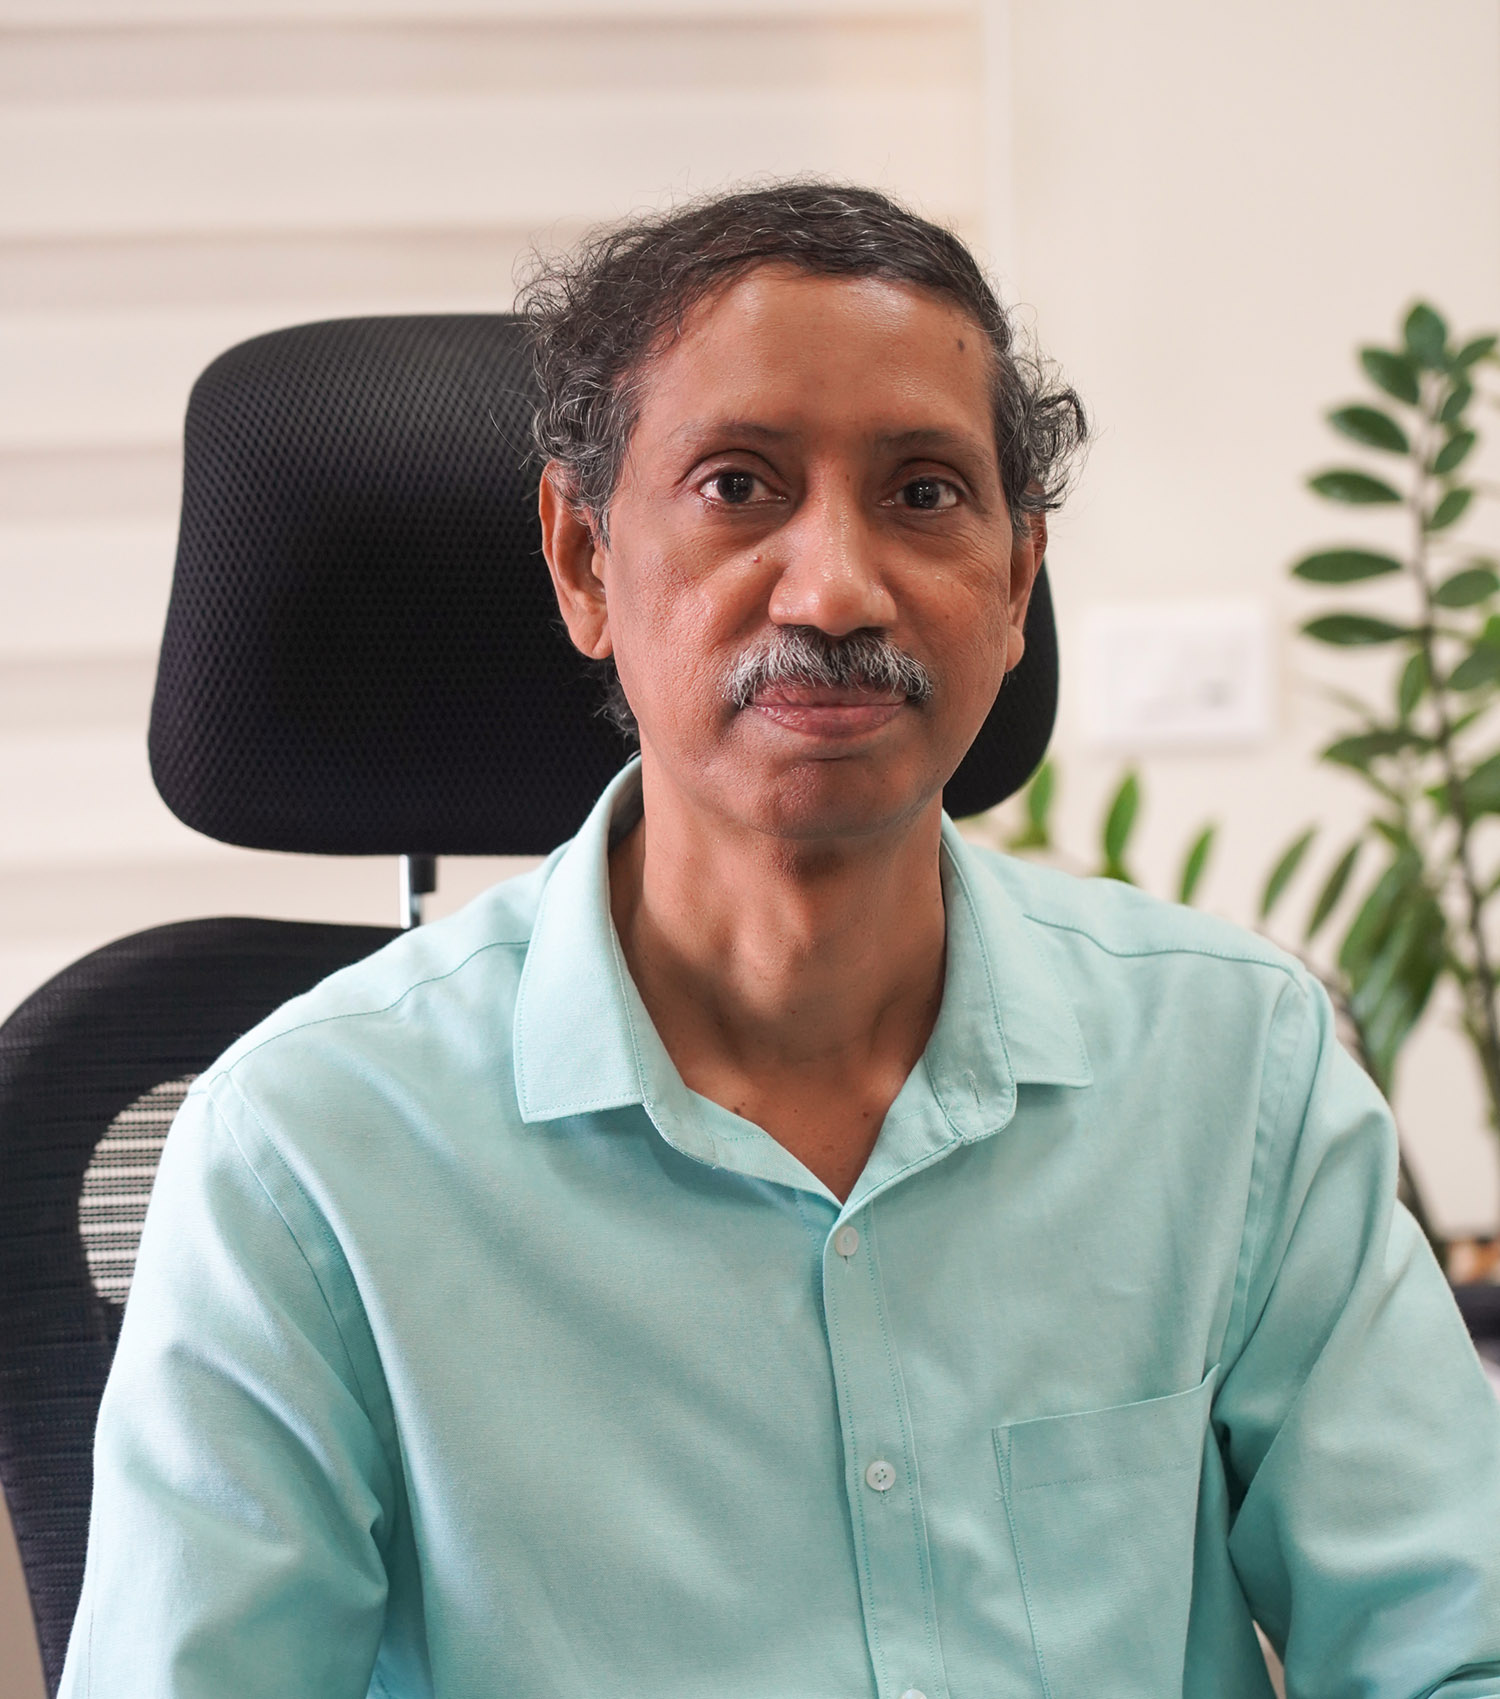
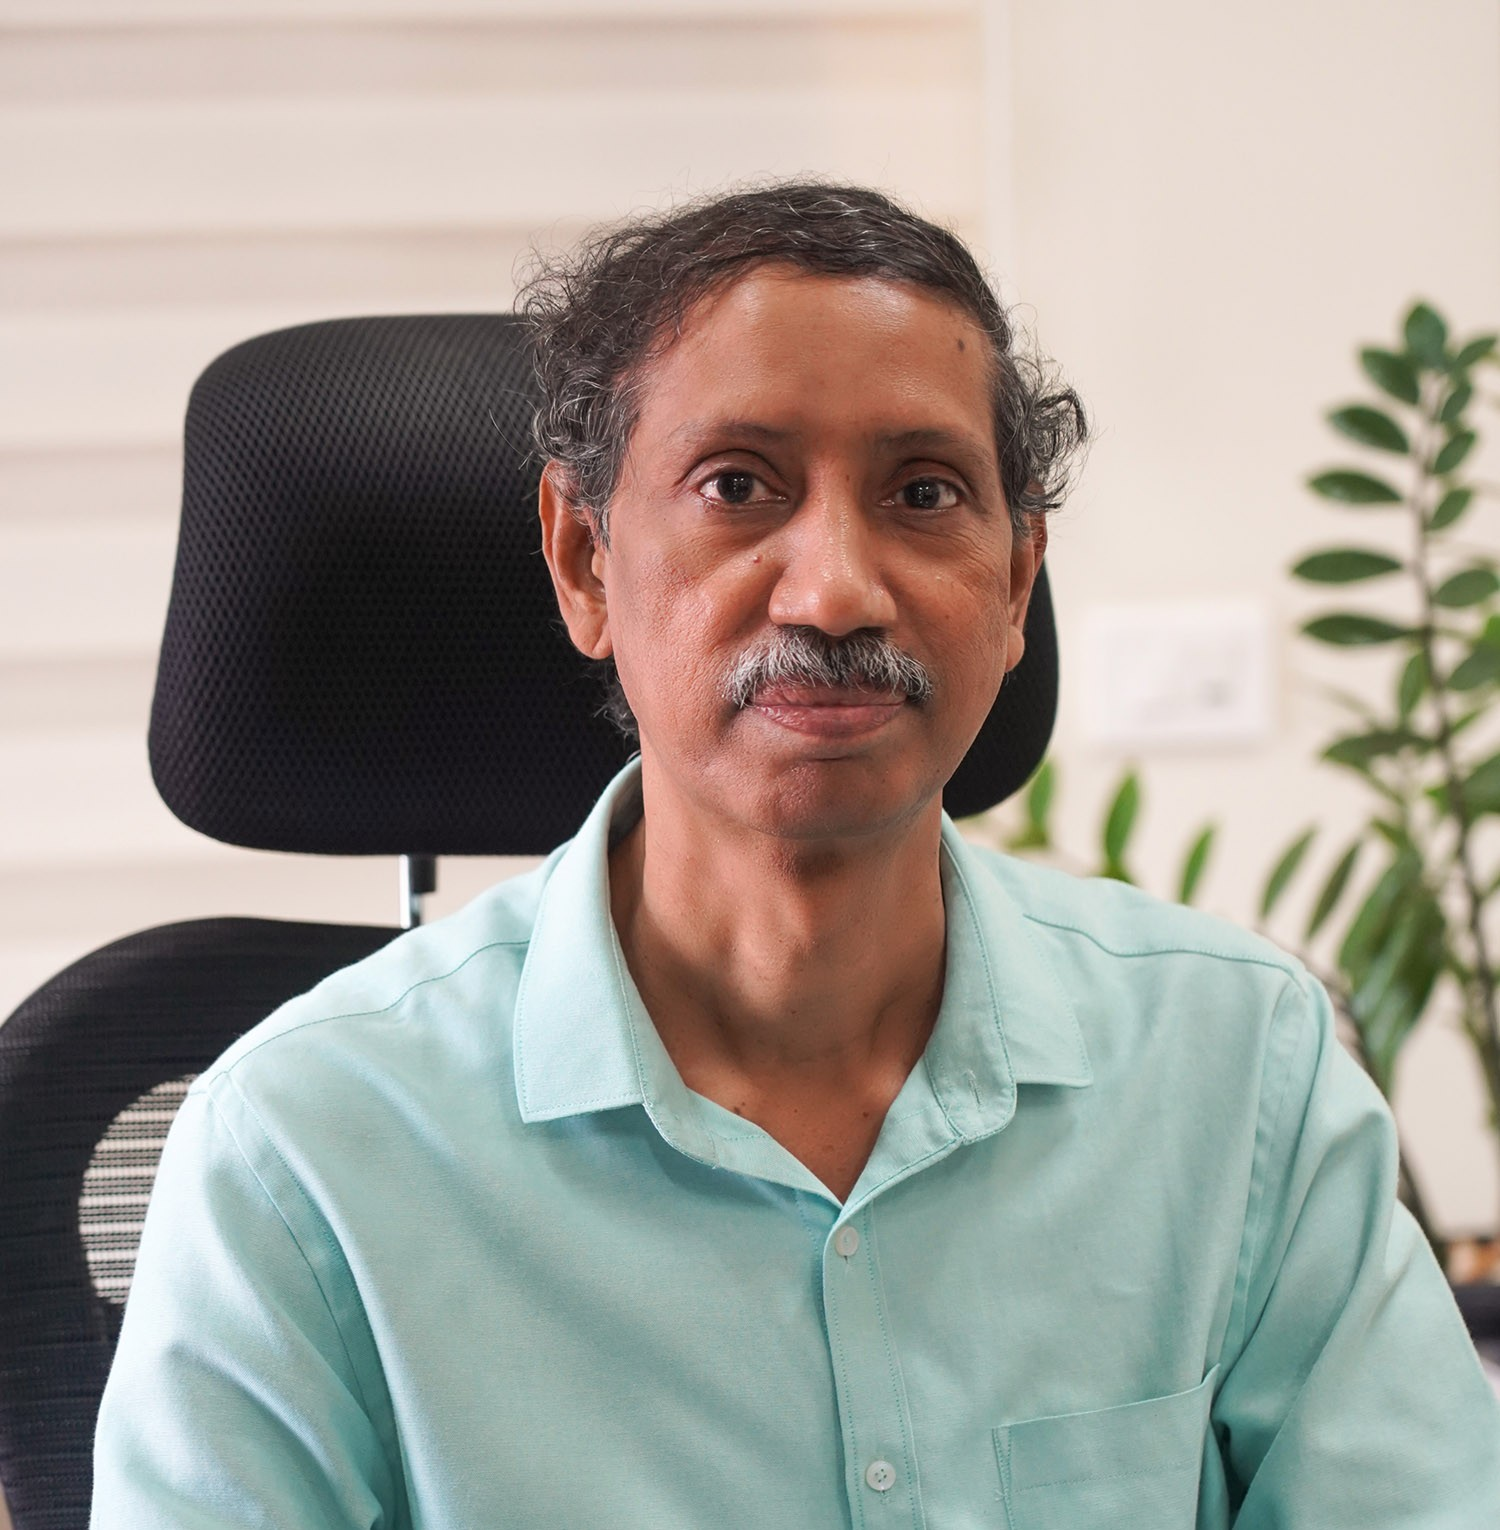
fixes

diff --git a/src/NavBar.css b/src/NavBar.css
@@ -249,58 +249,65 @@ white-space: nowrap;
   display: flex;
   flex-direction: row;
 }
-
 .custom-navbar {
-  background-color: #f8f9fa; /* Light background color */
+  background: linear-gradient(135deg, #f8f9fa, #e9ecef); /* Soft gradient */
   padding: 20px;
-  border-radius: 8px;
+  border-radius: 12px;
   font-family: 'Arial', sans-serif;
-  box-shadow: 0 4px 8px rgba(0, 0, 0, 0.1);
+  box-shadow: 0 6px 12px rgba(0, 0, 0, 0.15);
+  border: 1px solid #dee2e6;
 }
 
 .custom-navbar a {
-  color: #ff9d00; /* Blue text */
+  color: #ff9d00; 
   text-decoration: none;
   margin-right: 15px;
   font-size: 1rem;
-  font-weight: 500;
-  transition: color 0.3s ease-in-out;
+  font-weight: 600;
+  transition: all 0.3s ease-in-out;
+  padding: 5px 10px;
+  border-radius: 5px;
 }
 
-.custom-navbar a:hover {
-  color: #b36500; /* Darker blue on hover */
-  text-decoration: underline;
-}
 
-.custom-
-h1 {
-  font-size: 1.5rem;
-  color: #343a40; /* Dark gray */
+
+.custom-navbar h1 {
+  font-size: 1.8rem;
+  color: #343a40;
   margin-top: 20px;
   margin-bottom: 10px;
-  border-bottom: 2px solid #ff9500; /* Underline with blue */
+  border-bottom: 3px solid #ff9500;
   padding-bottom: 5px;
+  font-family: 'Playfair Display', serif;
+  letter-spacing: 1px;
 }
 
 .custom-navbar h4 {
-  font-size: 1.2rem;
-  color: #495057; /* Medium gray */
+  font-size: 1.3rem;
+  color: #495057;
   margin-top: 15px;
   margin-bottom: 8px;
+  font-family: 'Playfair Display', serif;
 }
 
 .custom-navbar a:last-child {
-  margin-right: 0; /* Remove margin for the last link */
-}
-
-.custom-navbar h1, .custom-navbar h4 {
-  font-family: 'Georgia', serif; /* Use a serif font for headers */
+  margin-right: 0;
 }
 
 .custom-navbar .highlight {
-  color: #dc3545; /* Highlight text in red */
+  color: #dc3545;
   font-weight: bold;
   font-size: 1.1rem;
+  background: rgba(220, 53, 69, 0.15);
+  padding: 2px 6px;
+  border-radius: 4px;
+}
+
+.custom-navbar a, 
+.custom-navbar h1, 
+.custom-navbar h4 {
+  display: block;
+  margin-bottom: 10px; /* Adds space between items */
 }
 
 

diff --git a/src/Carousel.tsx b/src/Carousel.tsx
@@ -84,7 +84,7 @@ function ImageSlider() {
         <div className="aboutusphoto">
           <div>
             <div>
-              <img src={item.image} alt="Director" height={350} width={300} />
+              <img src={item.image} alt="Director" height={300} width={300} />
             </div>
             <div className="namerole">
               {item.name_text}
